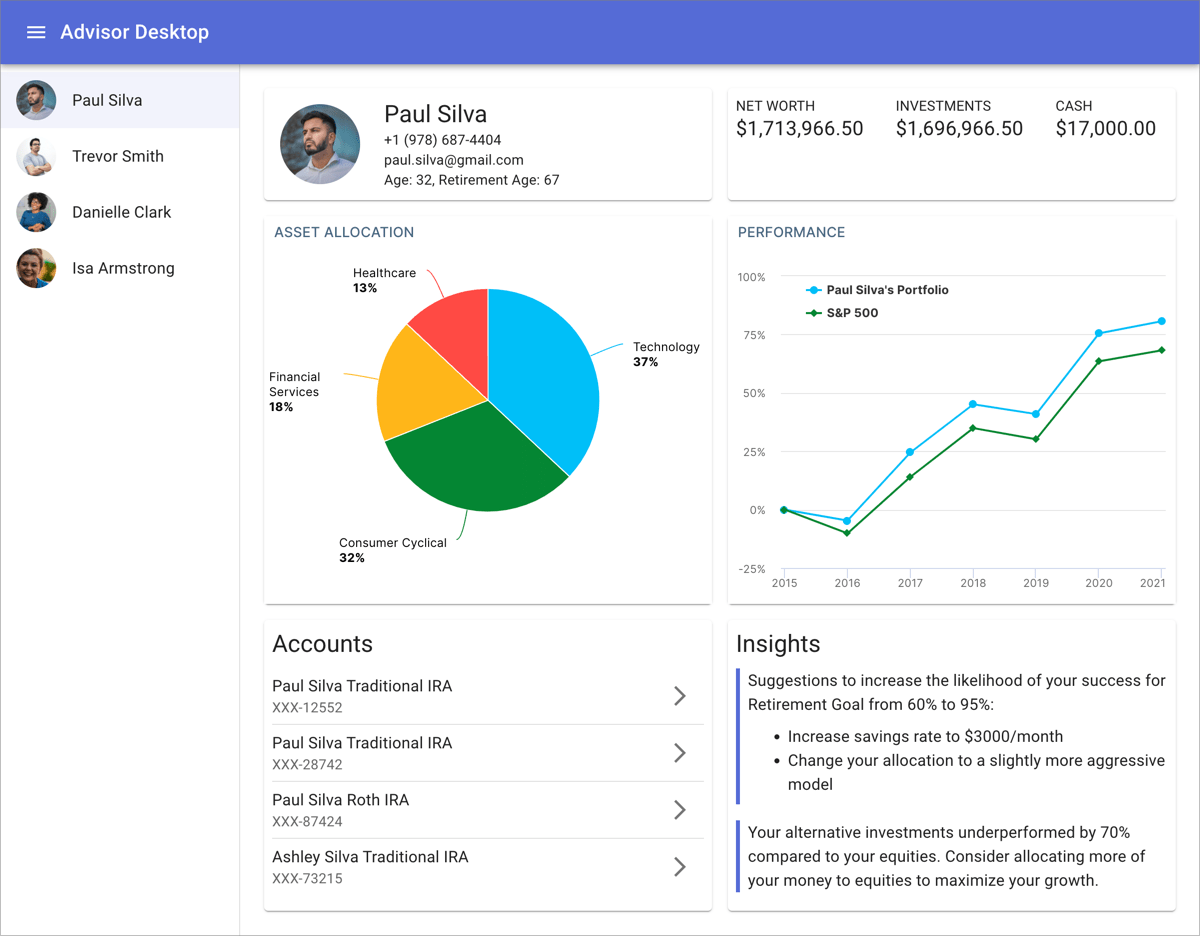
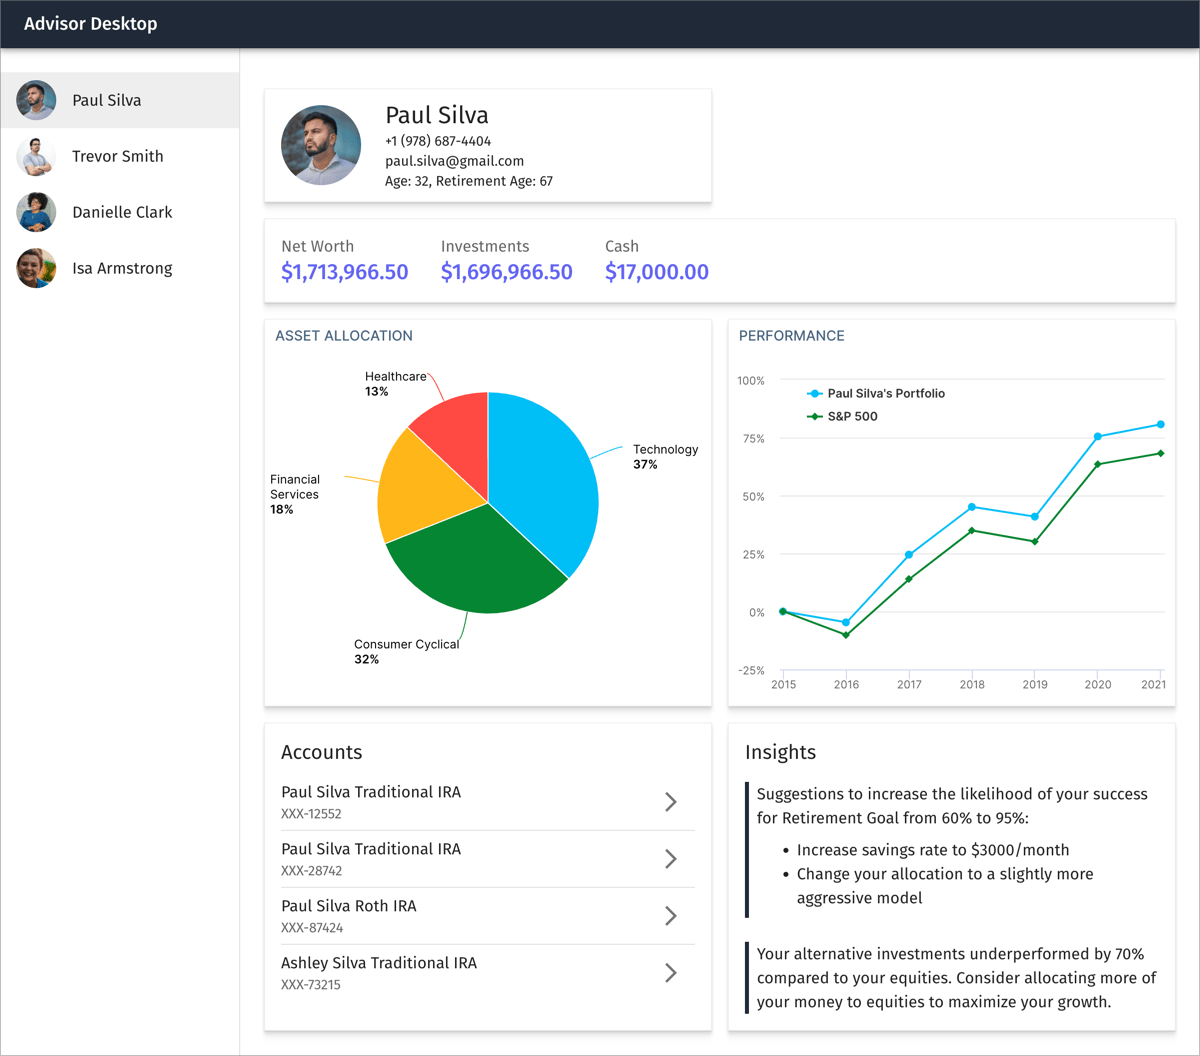
Styling changes

diff --git a/apps/advisor-desktop-monolith/src/App.tsx b/apps/advisor-desktop-monolith/src/App.tsx
@@ -1,7 +1,6 @@
 import * as React from 'react';
 import Box from '@mui/material/Box';
 import Grid from '@mui/material/Grid';
-import Paper from '@mui/material/Paper';
 import Toolbar from '@mui/material/Toolbar';
 import Typography from '@mui/material/Typography';
 import { Header } from 'ui';
@@ -13,6 +12,11 @@ import { PerformanceChartContainer } from './components/PerformanceChartContaine
 import { ProfileContainer } from './components/ProfileContainer';
 import { Sidebar } from './components/Sidebar';
 import { useClientContext } from './contexts/ClientContext';
+
+const boxShadow =
+  '0px 11px 4px rgba(0, 0, 0, 0.01), 0px 6px 4px rgba(0, 0, 0, 0.05), 0px 3px 3px rgba(0, 0, 0, 0.08), 0px 1px 1px rgba(0, 0, 0, 0.09), 0px 0px 0px rgba(0, 0, 0, 0.1)';
+
+const border = '1px solid #F0F0F0';
 
 export function App() {
   const { clientId } = useClientContext();
@@ -31,35 +35,35 @@ export function App() {
         )}
         {isClientSelected && (
           <Grid container spacing={2}>
-            <Grid item xs={12} md={6}>
-              <Paper sx={{ height: '100%' }}>
+            <Grid item xs={6}>
+              <Box sx={{ height: '100%', boxShadow, border }}>
                 <ProfileContainer />
-              </Paper>
+              </Box>
             </Grid>
-            <Grid item xs={12} md={6}>
-              <Paper sx={{ height: '100%' }}>
+            <Grid item xs={12}>
+              <Box sx={{ height: '100%', boxShadow, border }}>
                 <NetWorthContainer />
-              </Paper>
+              </Box>
             </Grid>
             <Grid item xs={12} md={6}>
-              <Paper sx={{ height: 388 }}>
+              <Box sx={{ height: 388, boxShadow, border }}>
                 <AssetAllocationChartContainer />
-              </Paper>
+              </Box>
             </Grid>
             <Grid item xs={12} md={6}>
-              <Paper sx={{ height: 388 }}>
+              <Box sx={{ height: 388, boxShadow, border }}>
                 <PerformanceChartContainer />
-              </Paper>
+              </Box>
             </Grid>
             <Grid item xs={12} md={6}>
-              <Paper sx={{ height: '100%' }}>
+              <Box sx={{ height: '100%', boxShadow, border }}>
                 <AccountsContainer />
-              </Paper>
+              </Box>
             </Grid>
             <Grid item xs={12} md={6}>
-              <Paper sx={{ height: '100%' }}>
+              <Box sx={{ height: '100%', boxShadow, border }}>
                 <InsightsContainer />
-              </Paper>
+              </Box>
             </Grid>
           </Grid>
         )}

diff --git a/packages/ui/src/NetWorthView.tsx b/packages/ui/src/NetWorthView.tsx
@@ -19,28 +19,18 @@ export function NetWorthView({
   cashBalance,
 }: NetWorthViewProps) {
   return (
-    <Box sx={{ p: 1, display: 'flex' }}>
-      {/* from xs to lg, show large font */}
-      <Box sx={{ display: { xs: 'block', lg: 'none' } }}>
-        <LabelValue
-          label="Net Worth"
-          value={investmentTotal + cashBalance}
-          isLarge={true}
-        />
-      </Box>
-
-      {/* from large up, switch to small font */}
-      <Box sx={{ display: { xs: 'none', lg: 'block' } }}>
+    <Box sx={{ p: 2, display: 'flex' }}>
+      <Box>
         <LabelValue label="Net Worth" value={investmentTotal + cashBalance} />
       </Box>
 
-      {/* show from large up */}
-      <Box ml={4} sx={{ display: { xs: 'none', lg: 'block' } }}>
+      {/* show from small up */}
+      <Box ml={4} sx={{ display: { xs: 'none', sm: 'block' } }}>
         <LabelValue label="Investments" value={investmentTotal} />
       </Box>
 
-      {/* show from large up */}
-      <Box ml={4} sx={{ display: { xs: 'none', lg: 'block' } }}>
+      {/* show from medium up */}
+      <Box ml={4} sx={{ display: { xs: 'none', md: 'block' } }}>
         <LabelValue label="Cash" value={cashBalance} />
       </Box>
     </Box>
@@ -50,31 +40,29 @@ export function NetWorthView({
 interface LabelValueProps {
   label: string;
   value: number;
-  isLarge?: boolean;
 }
 
-function LabelValue({ label, value, isLarge = false }: LabelValueProps) {
+function LabelValue({ label, value }: LabelValueProps) {
   return (
     <React.Fragment>
       <Typography
         variant="body2"
         component="h2"
-        sx={{ textTransform: 'uppercase' }}
+        sx={{ fontSize: '1rem', color: 'text.secondary' }}
       >
         {label}
       </Typography>
 
-      {!isLarge && (
-        <Typography sx={{ fontSize: '1.25rem', lineHeight: 1.25 }}>
-          ${NumberUtils.formatAsMoney(value)}
-        </Typography>
-      )}
-
-      {isLarge && (
-        <Typography sx={{ fontSize: '1.75rem', lineHeight: 1.25 }}>
-          ${NumberUtils.formatAsMoney(value)}
-        </Typography>
-      )}
+      <Typography
+        sx={{
+          fontSize: '1.375rem',
+          fontWeight: '500',
+          lineHeight: 1.25,
+          color: '#6366F1',
+        }}
+      >
+        ${NumberUtils.formatAsMoney(value)}
+      </Typography>
     </React.Fragment>
   );
 }

diff --git a/packages/ui/src/InsightList.tsx b/packages/ui/src/InsightList.tsx
@@ -11,12 +11,16 @@ const List = styled('ul')({
 
 export function InsightList() {
   return (
-    <Box sx={{ p: 1 }}>
-      <Typography variant="h5" component="h2" gutterBottom>
+    <Box sx={{ p: 2 }}>
+      <Typography
+        variant="h5"
+        component="h2"
+        sx={{ fontSize: '1.25rem', fontWeight: '400' }}
+      >
         Insights
       </Typography>
 
-      <Box sx={{ display: 'flex' }}>
+      <Box sx={{ display: 'flex', mt: 2 }}>
         <Divider
           orientation="vertical"
           sx={{ mr: 1, borderRightWidth: 4, borderRightColor: 'primary.main' }}
@@ -40,7 +44,7 @@ export function InsightList() {
         </Box>
       </Box>
 
-      <Box sx={{ display: 'flex', mt: 2 }}>
+      <Box sx={{ display: 'flex', mt: 3 }}>
         <Divider
           orientation="vertical"
           sx={{ mr: 1, borderRightWidth: 4, borderRightColor: 'primary.main' }}

diff --git a/packages/ui/src/Header.tsx b/packages/ui/src/Header.tsx
@@ -1,7 +1,5 @@
 import * as React from 'react';
 import AppBar from '@mui/material/AppBar';
-import IconButton from '@mui/material/IconButton';
-import MenuIcon from '@mui/icons-material/Menu';
 import Toolbar from '@mui/material/Toolbar';
 import Typography from '@mui/material/Typography';
 
@@ -15,11 +13,13 @@ export function Header({ title }: HeaderProps) {
       position="fixed"
       sx={{ zIndex: (theme) => theme.zIndex.drawer + 1 }}
     >
-      <Toolbar>
-        <IconButton size="large" edge="start" color="inherit">
-          <MenuIcon />
-        </IconButton>
-        <Typography variant="h6" noWrap component="div">
+      <Toolbar variant="dense">
+        <Typography
+          variant="h6"
+          component="div"
+          noWrap
+          sx={{ fontSize: '1.125rem' }}
+        >
           {title}
         </Typography>
       </Toolbar>

diff --git a/packages/ui/src/AccountList.tsx b/packages/ui/src/AccountList.tsx
@@ -16,8 +16,12 @@ interface AccountListProps {
 
 export function AccountList({ accounts, onClick }: AccountListProps) {
   return (
-    <Box sx={{ p: 1 }}>
-      <Typography variant="h5" component="h2">
+    <Box sx={{ p: 2 }}>
+      <Typography
+        variant="h5"
+        component="h2"
+        sx={{ fontSize: '1.25rem', fontWeight: '400' }}
+      >
         Accounts
       </Typography>
       {accounts.length === 0 && <Typography>Client has no accounts</Typography>}

diff --git a/packages/ui/src/theme.ts b/packages/ui/src/theme.ts
@@ -5,7 +5,7 @@ import { red } from '@mui/material/colors';
 export const theme = createTheme({
   palette: {
     primary: {
-      main: '#556CD6',
+      main: '#1F2937',
     },
     secondary: {
       main: '#FBC02D',
@@ -13,5 +13,8 @@ export const theme = createTheme({
     error: {
       main: red.A400,
     },
+  },
+  typography: {
+    fontFamily: ['Fira Sans', 'Helvetica', 'Arial', 'sans-serif'].join(','),
   },
 });

diff --git a/apps/advisor-desktop-monolith/index.html b/apps/advisor-desktop-monolith/index.html
@@ -9,7 +9,7 @@
     <link rel="preconnect" href="https://fonts.gstatic.com" crossorigin />
     <link
       rel="stylesheet"
-      href="https://fonts.googleapis.com/css?family=Roboto:300,400,500,700&display=swap"
+      href="https://fonts.googleapis.com/css2?family=Inter:wght@300;400;500;600&display=swap"
     />
   </head>
   <body>

diff --git a/packages/ui/src/PerformanceChart.tsx b/packages/ui/src/PerformanceChart.tsx
@@ -1,6 +1,6 @@
 import * as React from 'react';
-import { LineChart } from './LineChart';
 import { Series } from 'advisor-models';
+import { LineChart } from './LineChart';
 
 interface PerformanceChartProps {
   performance: Array<Series>;

diff --git a/packages/ui/src/PieChart.tsx b/packages/ui/src/PieChart.tsx
@@ -9,7 +9,7 @@ import drilldown from 'highcharts/modules/drilldown';
 drilldown(Highcharts);
 
 export interface PieChartProps {
-  title: string;
+  title?: string;
   series: SeriesPieOptions[];
   drilldown: DrilldownOptions;
 }

diff --git a/packages/ui/src/LineChart.tsx b/packages/ui/src/LineChart.tsx
@@ -3,7 +3,7 @@ import Highcharts, { Options } from 'highcharts';
 import HighchartsReact from 'highcharts-react-official';
 
 export interface LineChartProps {
-  title: string;
+  title?: string;
   series: any;
 }
 
